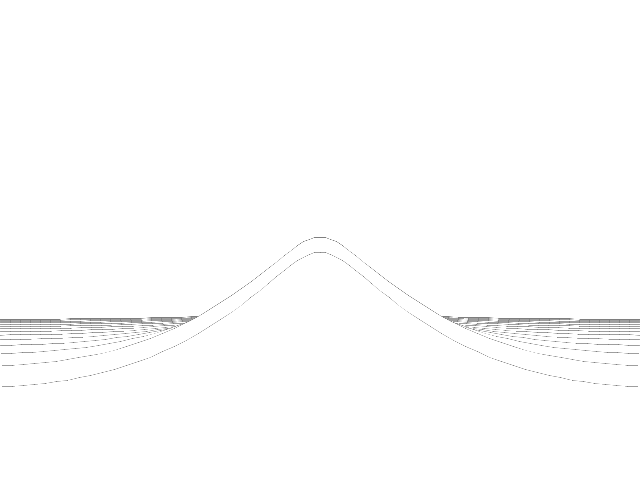
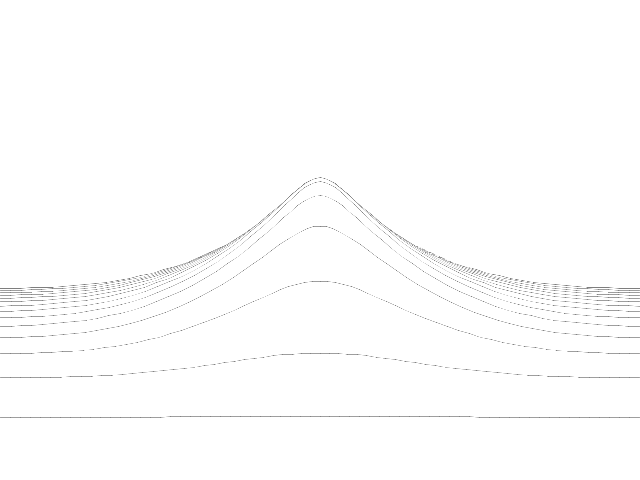
tweak render

diff --git a/test/render.js b/test/render.js
@@ -11,8 +11,8 @@ const lines = require('../src/lines.js');
 
 function main() {
   var up = vec3.fromValues(0, 1, 0);
-  var eye = vec3.fromValues(0, 0.4, -2);
-  var center = vec3.fromValues(0, 0, 0);
+  var eye = vec3.fromValues(0, 0.75, -2.45);
+  var center = vec3.fromValues(0, 0.6, 0);
   var pose = mat4.create();
   mat4.lookAt(pose, eye, center, up);
   var projection = mat4.create();
@@ -22,7 +22,7 @@ function main() {
 
   const camera = {projection, pose};
   const scene = {
-    heightmap: lines.gaussian(vec2.fromValues(0, -0.19), 0.030),
+    heightmap: lines.gaussian(vec2.fromValues(0, 0), 0.030),
     plane: vec4.fromValues(0, -1, 0, 0)};
   lines.render(canvas, camera, scene);
 
